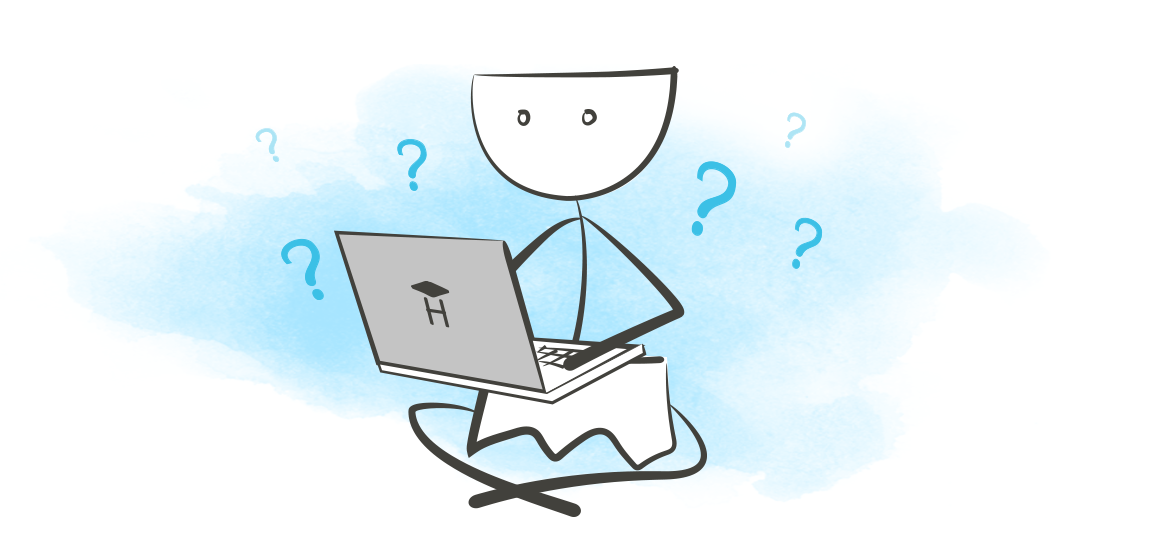
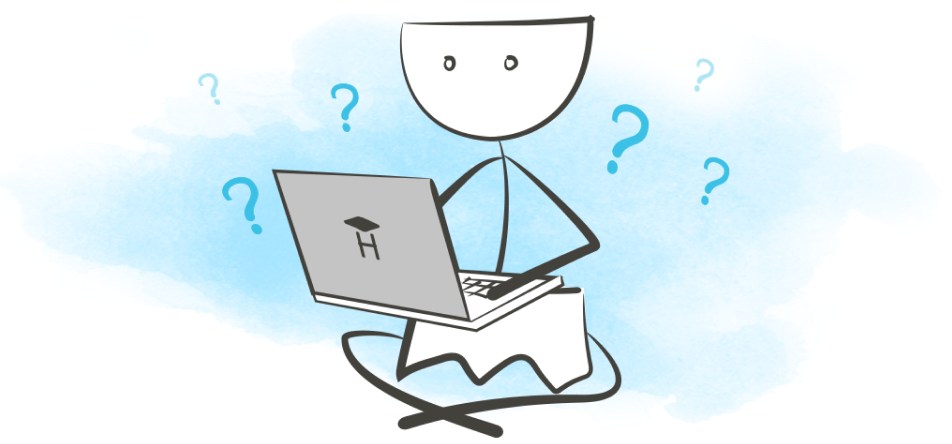
fix image overflow, w3c errors, headers weight and order

diff --git a/src/index.html b/src/index.html
@@ -39,7 +39,7 @@
             <div class="wrapper video-overlap">
                 <h2 class="video-title txt-center">Что же это такое,<br><span class="txt-main">когнитивные искажения?</span></h2>
                 <p class="video-description txt-center">Что такое когнитивные искажения. Petrovna Channel</p>
-                <iframe class="video" width="919" height="569" src="https://www.youtube.com/embed/jie9AizBqss" frameborder="0" allowfullscreen></iframe>
+                <iframe class="video" width="919" height="569" src="https://www.youtube.com/embed/jie9AizBqss" allowfullscreen></iframe>
             </div>
         </section>
         
@@ -101,7 +101,7 @@
                     </div>
                 </div>
                 <div class="bias-traits">
-                    <h4 class="bias-traits-header bias-traits-header-dark">Как проявляется</h4>
+                    <h3 class="bias-traits-header bias-traits-header-dark">Как проявляется</h3>
                     <div class="flex">
                         <p class="bias-description-column">
                             Когнитивное искажение называется так из-за того, что потребители зачастую предпочитают покупать товары, которые они могут собрать сами, а не уже собранные кем-то.
@@ -127,7 +127,7 @@
                     <div class="bias-illustration"><img src="assets/2.png" alt="bias-illustration"></div>
                 </div>
                 <div class="bias-traits">
-                    <h4 class="bias-traits-header bias-traits-header-light">Как проявляется</h4>
+                    <h3 class="bias-traits-header bias-traits-header-light">Как проявляется</h3>
                     <div class="flex">
                         <p class="bias-description-column">
                             Если вы добавите аэродинамический спойлер к своему старому автомобилю вместо ремонта мотора, то автомобиль не станет быстрее.
@@ -153,7 +153,7 @@
                     </div>
                 </div>
                 <div class="bias-traits">
-                    <h4 class="bias-traits-header bias-traits-header-dark">Как проявляется</h4>
+                    <h3 class="bias-traits-header bias-traits-header-dark">Как проявляется</h3>
                     <div class="flex">
                         <p class="bias-description-column">Часто это искажение настигает нас, когда нужно решение проблемы и… о! Мы как раз только что решили подобную проблему! Давайте использовать это же решение, потому что оно сработало, и мы помним как!</p>
                         <p class="bias-description-column">Вы замечаете, что пользуетесь теми же рабочими методиками раз за разом? Если да, возможно, вы смотрите на разные проблемы под одним и тем же углом.</p>
@@ -175,7 +175,7 @@
                     <div class="bias-illustration"><img src="assets/4.png" alt="bias-illustration"></div>
                 </div>
                 <div class="bias-traits">
-                    <h4 class="bias-traits-header bias-traits-header-light">Как проявляется</h4>
+                    <h3 class="bias-traits-header bias-traits-header-light">Как проявляется</h3>
                     <div class="flex">
                         <p class="bias-description-column">Вы когда-нибудь откладывали написание теста? Ловили себя на использовании клавиш-стрелок в Vim? Поздравляю, у вас наблюдается гиперболическое обесценивание.</p>
                         <p class="bias-description-column">Немедленная выгода от использования чего-то быстродоступного значительно смягчает боль, которую нужно перетерпеть, чтобы усвоить правильный синтаксис для перемещения на нужную строчку. Но как только вы поймёте как перемещаться быстрее, выгода в будущем намного выше. В итоге вы сохраните много времени.</p>
@@ -197,7 +197,7 @@
                     </div>
                 </div>
                 <div class="bias-traits">
-                    <h4 class="bias-traits-header bias-traits-header-dark">Как проявляется</h4>
+                    <h3 class="bias-traits-header bias-traits-header-dark">Как проявляется</h3>
                     <div class="flex">
                         <p class="bias-description-column">Одно из искажений, которое должно признать большинство из нас. И менеджеры проекта, и сами пользователи продукта — все склонны ставить сроки, в которые невозможно закончить запланированное.</p>
                         <p class="bias-description-column">Это отлично выражается в старом афоризме:

diff --git a/src/styles/style.css b/src/styles/style.css
@@ -26,6 +26,7 @@ h4,
 h5,
 h6 {
   margin: 0;
+  font-weight: 400;
   font-family: 'Neucha', cursive;
   line-height: 1.2em;
 }
@@ -88,10 +89,9 @@ h3 {
 
 .programmer-illustration {
   position: absolute;
-  top: 55px;
-  right: -104px;
+  top: 100px;
+  right: 0;
   z-index: -1;
-  height: 525px;
 }
 
 .flex {
@@ -143,6 +143,7 @@ h3 {
 .video {
   display: block;
   margin: 0 auto;
+  border: 0;
   filter: drop-shadow(0 16px 32px rgba(0, 0, 0, 0.15));
 }
 
@@ -222,10 +223,6 @@ h3 {
   color: var(--semi-white);
 }
 
-.bias-header h2 {
-  font-weight: 400;
-}
-
 .bias-header > p {
   font-size: 34px;
   font-family: 'Neucha', cursive;
@@ -274,7 +271,6 @@ h3 {
 
 .feeback-form-header {
   margin-right: 122px;
-  font-weight: 400;
   font-size: 34px;
 }
 
